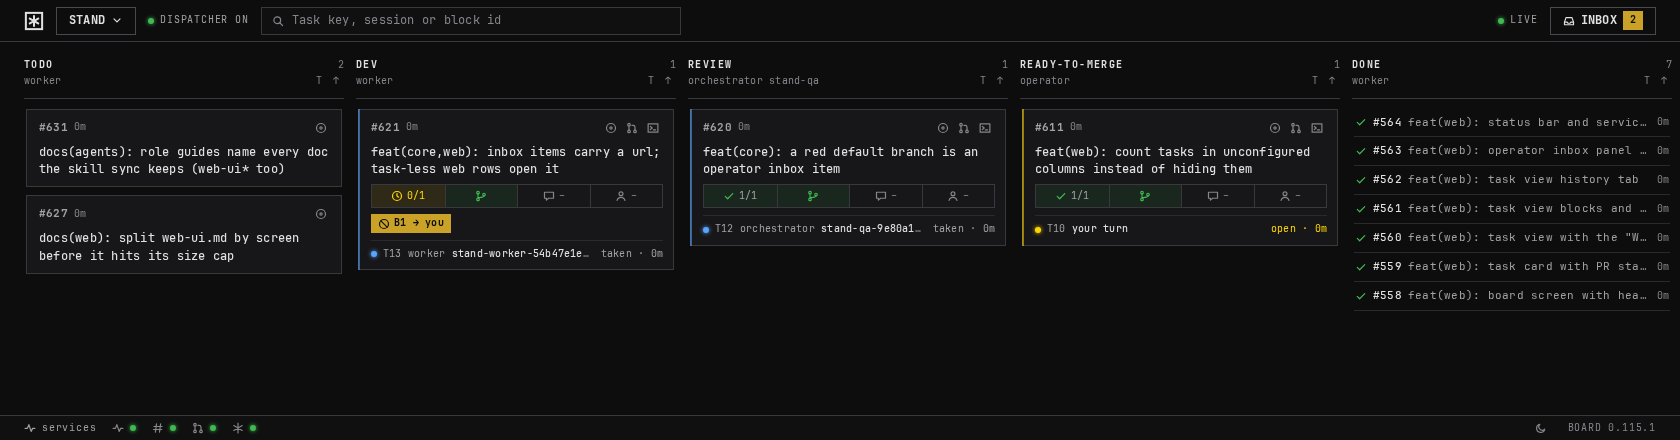
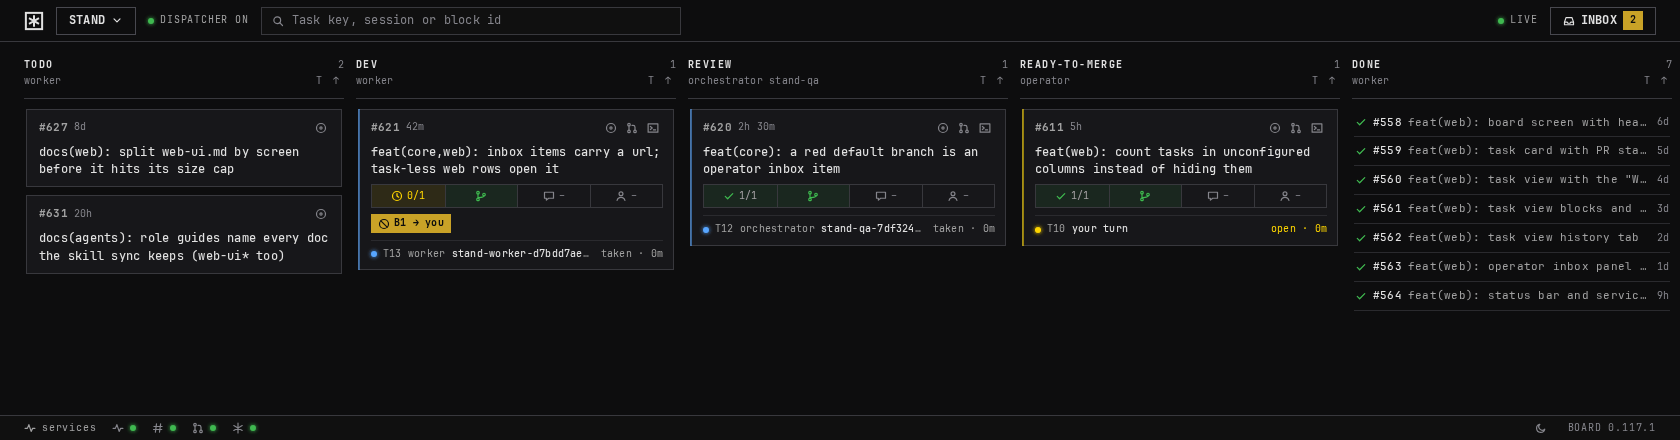
docs(stand): #712 stagger readme-board column entry times and retake the README images (#722)
## Description

- The README board images now show how long each task has sat in its
column: To Do cards read `8d` and `20h`, Dev `42m`, Review `2h 30m`,
Ready to Merge `5h`, and the Done rows `6d` down to `9h`, instead of
`0m` everywhere.
- The `readme-board` stand scenario gives each of its 12 tasks a fixed
entry age, counted back from the stand clock at seed time, so every seed
produces the same spread and Done rows sort oldest first (#558 to #564).
- Both images are retaken from the updated scenario on v0.117.1, so the
status bar shows `BOARD 0.117.1`; README text and alt text are
unchanged.
- Not in this PR: turn lines on cards (`taken · 0m`, `open · 0m`) still
read `0m`, since they count from the turn's own times, not the column
entry (see Risk).

## Architecture decisions

| Decision | Alternative considered | Why |
| --- | --- | --- |
| Backdate the column entry events (and `created_at` for To Do tasks,
which have no entry event) with one recorded `board.direct` write at the
end of the seed | Shift the stand clock between moves | The web counts
ages from the browser's clock, so a stand clock pushed ahead makes every
later entry a future time that reads `0m`; shifts also run ticks that
could add reminders to the picture |
| Pick the event to backdate in the same way the status read does
(newest `task_moved`, or non-shadow `task_corrected`, whose target is
the current column) | Rewrite every event of the task | Only the event
[…]

diff --git a/packages/stand/src/scenarios/readme-board.ts b/packages/stand/src/scenarios/readme-board.ts
@@ -3,7 +3,9 @@
 // Done with the dispatcher on. Recipe: seed `readme-board`, open the stand webUrl in gstack browse
 // at a 1680x440 viewport, set localStorage `board-theme` to dark then light, `screenshot
 // --viewport` each, and shrink each to a 256-colour palette with ffmpeg (`palettegen`,
-// `paletteuse=dither=none`, `-pred mixed`).
+// `paletteuse=dither=none`, `-pred mixed`). Seed with `pnpm stand seed readme-board`, not `reset`
+// (its restored rows keep the old entry times), and shoot within a few minutes: the column ages
+// count from the seed.
 import { randomUUID } from 'node:crypto';
 import { flow, REPO, STEP_MS, submit, take } from './dispatcher.ts';
 import { issueKey, settledUnless } from './helpers.ts';
@@ -11,55 +13,79 @@ import type { Board, Scenario, ScenarioFakes } from './index.ts';
 
 type Column = 'todo' | 'dev' | 'review' | 'ready-to-merge' | 'done';
 
-const TASKS: readonly { number: number; title: string; column: Column }[] = [
+const MINUTE = 60_000;
+const HOUR = 60 * MINUTE;
+const DAY = 24 * HOUR;
+
+/** `enteredAgo`: how long before the seed the task entered its column, in ms. */
+const TASKS: readonly { number: number; title: string; column: Column; enteredAgo: number }[] = [
   {
     number: 627,
     title: 'docs(web): split web-ui.md by screen before it hits its size cap',
     column: 'todo',
+    enteredAgo: 8 * DAY,
   },
   {
     number: 631,
     title: 'docs(agents): role guides name every doc the skill sync keeps (web-ui* too)',
     column: 'todo',
+    enteredAgo: 20 * HOUR,
   },
   {
     number: 621,
     title: 'feat(core,web): inbox items carry a url; task-less web rows open it',
     column: 'dev',
+    enteredAgo: 42 * MINUTE,
   },
   {
     number: 620,
     title: 'feat(core): a red default branch is an operator inbox item',
     column: 'review',
+    enteredAgo: 2 * HOUR + 30 * MINUTE,
   },
   {
     number: 611,
     title: 'feat(web): count tasks in unconfigured columns instead of hiding them',
     column: 'ready-to-merge',
+    enteredAgo: 5 * HOUR,
   },
   {
     number: 558,
     title: 'feat(web): board screen with header, columns and stale states',
     column: 'done',
+    enteredAgo: 6 * DAY,
   },
   {
     number: 559,
     title: 'feat(web): task card with PR status, turn line and markers',
     column: 'done',
+    enteredAgo: 5 * DAY,
   },
   {
     number: 560,
     title: 'feat(web): task view with the "Why it is here" section',
     column: 'done',
+    enteredAgo: 4 * DAY,
   },
   {
     number: 561,
     title: 'feat(web): task view blocks and comments with the two write actions',
     column: 'done',
+    enteredAgo: 3 * DAY,
   },
-  { number: 562, title: 'feat(web): task view history tab', column: 'done' },
-  { number: 563, title: 'feat(web): operator inbox panel across projects', column: 'done' },
-  { number: 564, title: 'feat(web): status bar and services panel', column: 'done' },
+  { number: 562, title: 'feat(web): task view history tab', column: 'done', enteredAgo: 2 * DAY },
+  {
+    number: 563,
+    title: 'feat(web): operator inbox panel across projects',
+    column: 'done',
+    enteredAgo: DAY + 3 * HOUR,
+  },
+  {
+    number: 564,
+    title: 'feat(web): status bar and services panel',
+    column: 'done',
+    enteredAgo: 9 * HOUR,
+  },
 ];
 
 const numbersIn = (column: Column): number[] =>
@@ -116,6 +142,50 @@ async function toReview(board: Board, fakes: ScenarioFakes, number: number): Pro
   return turnOn(board, 'orchestrator', number, 'review: no_review_on_head');
 }
 
+/**
+ * Sets when each task entered its column to `enteredAgo` before `now`: the `at` of the latest
+ * entry event the status read picks, or `created_at` for a task with none (To Do).
+ */
+async function backdateEntries(board: Board, now: number): Promise<void> {
+  await board.direct(
+    'column entry times backdated: no operation sets when a task entered its column (#712)',
+    async (db) => {
+      for (const { number, enteredAgo } of TASKS) {
+        const at = new Date(now - enteredAgo).toISOString();
+        const task = await db
+          .selectFrom('task')
+          .select(['id', 'column'])
+          .where('project', '=', 'stand')
+          .where('key', '=', issueKey(number))
+          .executeTakeFirstOrThrow();
+        const events = await db
+          .selectFrom('event')
+          .select(['id', 'kind', 'payload'])
+          .where('task_id', '=', task.id)
+          .where('kind', 'in', ['task_moved', 'task_corrected'])
+          .orderBy('id', 'desc')
+          .execute();
+        const entry = events.find(({ kind, payload }) => {
+          const { to, shadow } = JSON.parse(payload) as { to?: unknown; shadow?: unknown };
+          return to === task.column && (kind === 'task_moved' || shadow === false);
+        });
+        if (entry === undefined)
+          await db
+            .updateTable('task')
+            .set({ created_at: at })
+            .where('id', '=', task.id)
+            .executeTakeFirstOrThrow();
+        else
+          await db
+            .updateTable('event')
+            .set({ at })
+            .where('id', '=', entry.id)
+            .executeTakeFirstOrThrow();
+      }
+    },
+  );
+}
+
 const taskNames = (): Record<string, string> =>
   Object.fromEntries(
     TASKS.map(({ number, column }) => [`${column}-${String(number)}`, issueKey(number)]),
@@ -123,9 +193,9 @@ const taskNames = (): Record<string, string> =>
 
 export const readmeBoard: Scenario = {
   name: 'readme-board',
-  summary: `The README Board: ${String(TASKS.length)} closed spur-board issues in To Do, Dev (a taken turn, CI pending, a question to the operator), Review (the conductor's turn), Ready to Merge (the operator's turn) and Done.`,
+  summary: `The README Board: ${String(TASKS.length)} closed spur-board issues in To Do, Dev (a taken turn, CI pending, a question to the operator), Review (the conductor's turn), Ready to Merge (the operator's turn) and Done, each entered its column from 42 minutes to 8 days before the seed.`,
   config: flow(),
-  async seed(board, fakes) {
+  async seed(board, fakes, clock) {
     for (const { number, title } of TASKS)
       await fakes.github('issue-open', { repo: REPO, number, title });
     await board.poll();
@@ -152,6 +222,7 @@ export const readmeBoard: Scenario = {
       { task: issueKey(DEV), text: 'Should a task-less row open its url in a new tab?' },
       randomUUID(),
     );
+    await backdateEntries(board, clock.now());
     return {
       tasks: taskNames(),
       prs: Object.fromEntries(

diff --git a/packages/stand/test/scenarios.integration.test.ts b/packages/stand/test/scenarios.integration.test.ts
@@ -3241,11 +3241,12 @@ describe('card scenario', () => {
 
 describe('readme scenario', () => {
   it('readme-board: real closed issues fill every column with the Dev, Review and Ready to Merge turns', async () => {
-    await up();
+    await up({ clock: { now: () => Date.parse('2026-11-14T12:00:00.000Z') } });
     const { scenario } = await seed('readme-board');
     interface Row {
       key: string;
       column: string;
+      columnEnteredAt: string;
       ticket?: { title: string } | null;
       turn: { addressee: string; column: string; taken: { by: string } | null } | null;
       blocks: { id: string; addressee: string }[];
@@ -3279,6 +3280,26 @@ describe('readme scenario', () => {
     expect(at('review')[0]?.turn?.addressee).toBe('orchestrator:review');
     expect(at('ready-to-merge')[0]?.turn).toMatchObject({ column: 'ready-to-merge' });
     for (const row of at('todo')) expect(row.turn, row.key).toBeNull();
+    // The seed's 10 ms shift puts its clock at 12:00:00.010; each task entered enteredAgo before.
+    expect(
+      Object.fromEntries(tasks.map((row) => [row.key.split('#')[1], row.columnEnteredAt])),
+    ).toEqual({
+      '627': '2026-11-06T12:00:00.010Z',
+      '631': '2026-11-13T16:00:00.010Z',
+      '621': '2026-11-14T11:18:00.010Z',
+      '620': '2026-11-14T09:30:00.010Z',
+      '611': '2026-11-14T07:00:00.010Z',
+      '558': '2026-11-08T12:00:00.010Z',
+      '559': '2026-11-09T12:00:00.010Z',
+      '560': '2026-11-10T12:00:00.010Z',
+      '561': '2026-11-11T12:00:00.010Z',
+      '562': '2026-11-12T12:00:00.010Z',
+      '563': '2026-11-13T09:00:00.010Z',
+      '564': '2026-11-14T03:00:00.010Z',
+    });
+    expect(scenario.direct).toEqual([
+      'column entry times backdated: no operation sets when a task entered its column (#712)',
+    ]);
     expect(await ok(current(), '/violations')).toMatchObject({ total: 0 });
   }, 90_000);
 });
